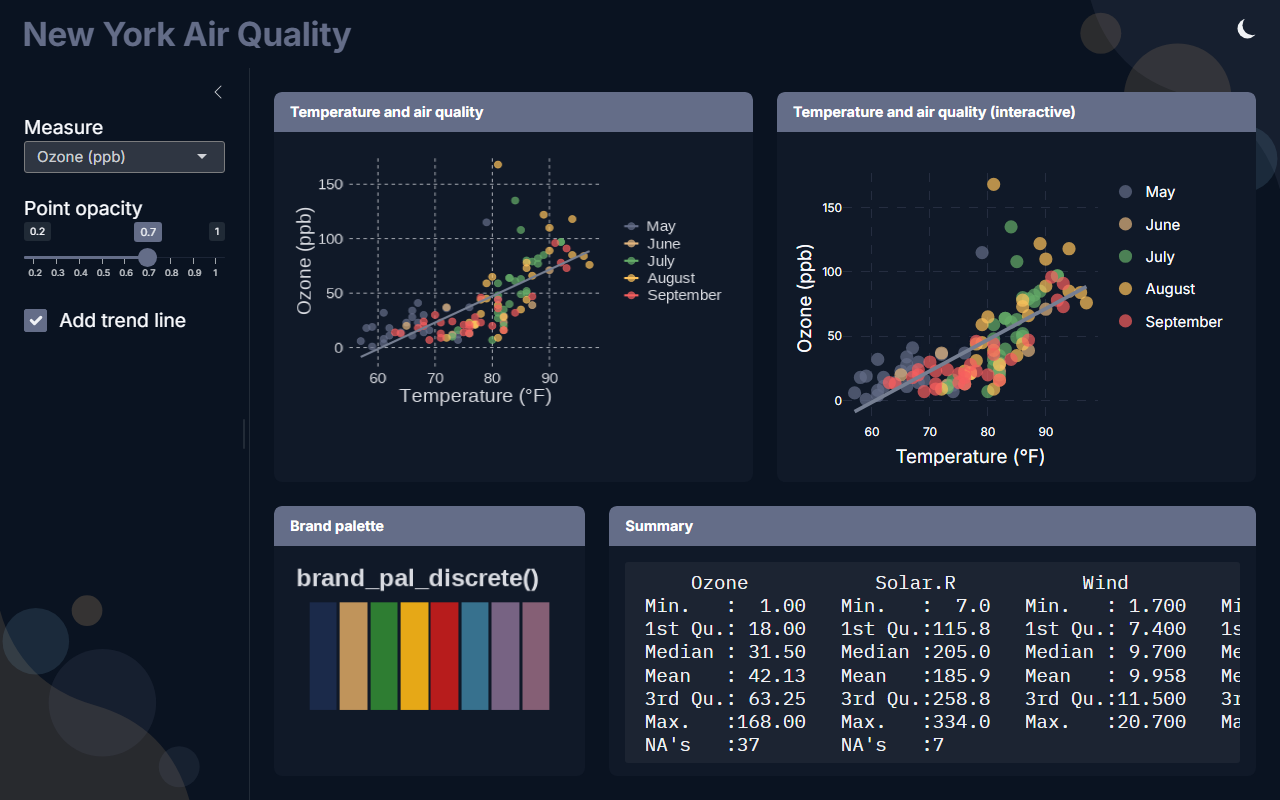
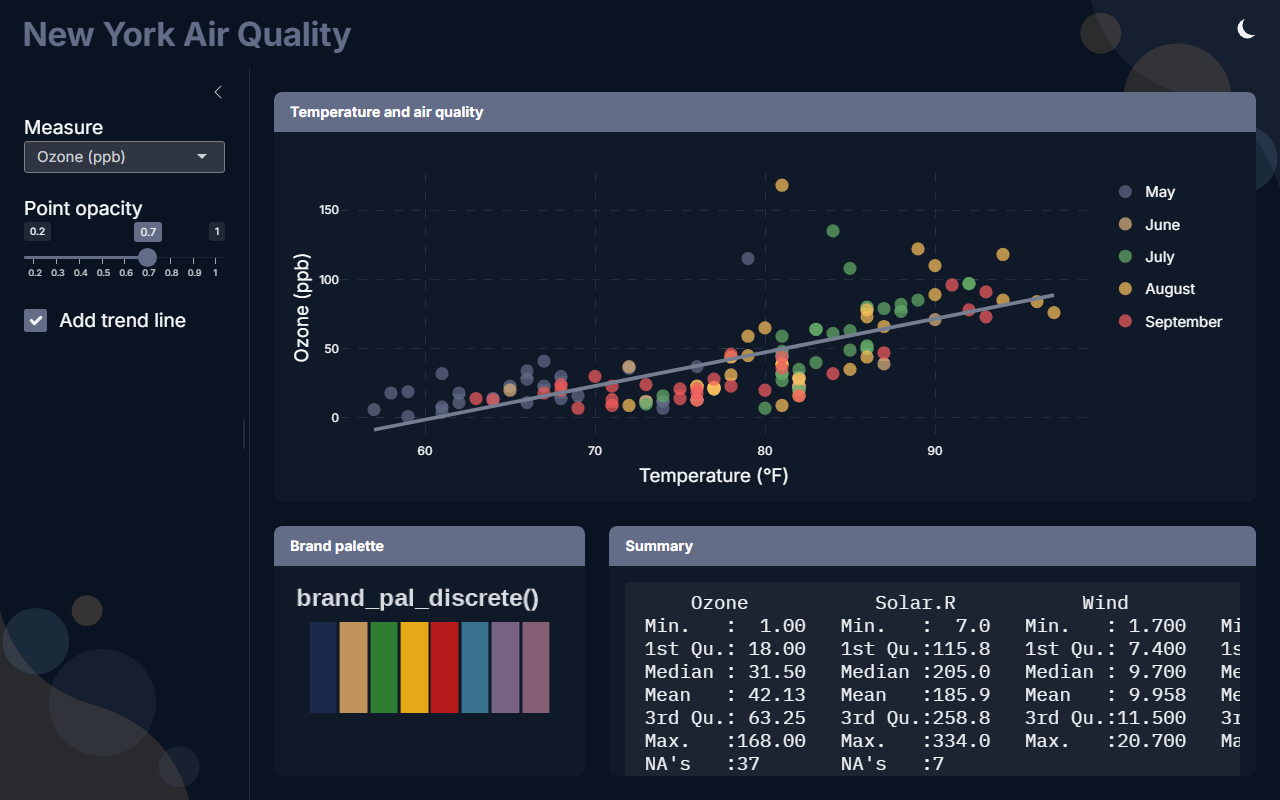
Show only the plotly version in the interactive templates
The Shiny starter app, the HTML report and the slide deck drew the same
scatter plot twice, as a static ggplot and again as a plotly widget. They now
keep only the brand_plotly() version (still written as an ordinary ggplot),
which takes the width the pair shared: one full-width card in the app, one
section in the report, one slide in the deck. The static PDF, print and poster
templates are unchanged, as are the dashboards, whose ggplot and plotly charts
show different data.

Docs, NEWS and the README screenshots are updated to match.

diff --git a/NEWS.md b/NEWS.md
@@ -1,5 +1,14 @@
 # brandkit (development version)
 
+* The interactive templates no longer draw the same plot twice, once as a static
+  ggplot and again as a plotly widget. The Shiny starter app, the HTML report
+  and the slide deck keep only the `brand_plotly()` version (still written as an
+  ordinary ggplot and passed to `brand_plotly()`), which now takes the width the
+  pair shared. The PDF, print and poster templates are static and keep their
+  ggplot figures, and the dashboards show different plots side by side, so they
+  are unchanged. Re-run the scaffold with `overwrite = TRUE` to update an
+  existing project.
+
 * The ornament text can sit on the bottom-left ornament instead of the
   top-right one. The configurator's *Meta & Logo* tab has a new "Ornament text
   sits on the" toggle (Top / Bottom), with the live preview following it; it is
@@ -111,9 +120,9 @@
   if it is missing.
 * Declared dependencies that were used but not listed: `later` and `utils`
   in Imports, `htmlwidgets` in Suggests.
-* The `create_brand_shiny_app()` template now shows its scatter plot a second
-  time as an interactive `brand_plotly()` card. The template needs plotly
-  (already in Suggests), and the scaffold reports it if it is missing.
+* The `create_brand_shiny_app()` template shows its scatter plot as an
+  interactive `brand_plotly()` card. The template needs plotly (already in
+  Suggests), and the scaffold reports it if it is missing.
 * New `create_brand_shiny_steps()` template for a workflow that runs in order:
   numbered pills in the sidebar select the page for each step, with Back /
   Next buttons. It is `brand_page_sidebar()` plus a `navset_pill()` and a

diff --git a/README.md b/README.md
@@ -95,7 +95,7 @@ create_brand_quarto_html("my-report")
 
 | Function | Gives you | Look |
 |---|---|---|
-| `create_brand_shiny_app()` | sidebar app: inputs, a ggplot and a plotly chart | drift |
+| `create_brand_shiny_app()` | sidebar app: inputs and an interactive plotly chart | drift |
 | `create_brand_shiny_dashboard()` | KPI dashboard: value boxes, tabs, a DT table | classic |
 | `create_brand_shiny_map()` | leaflet map with a brand colour ramp and tiles that follow the mode | classic |
 | `create_brand_shiny_steps()` | a workflow in order, with numbered steps in the sidebar | drift |
